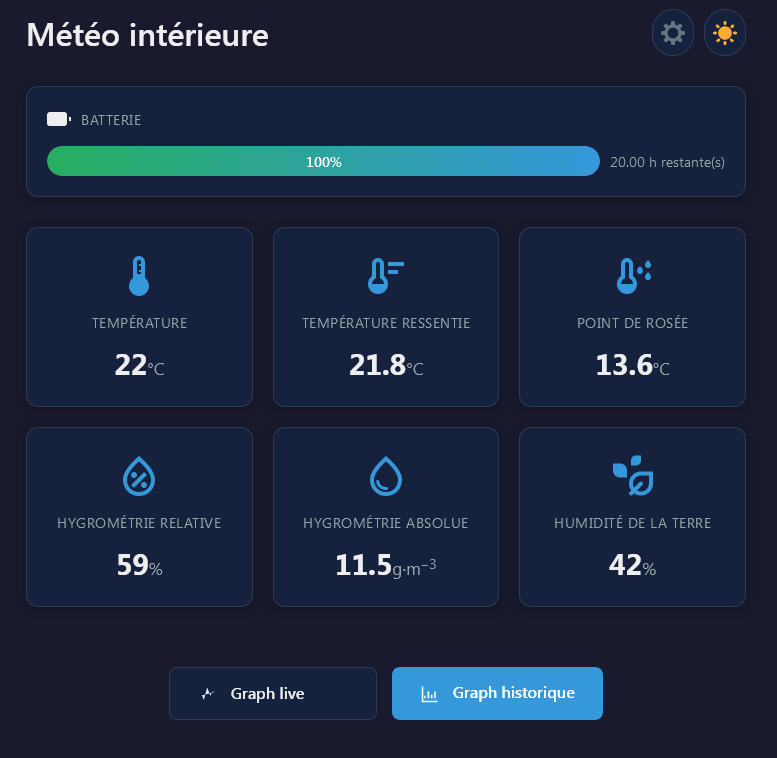
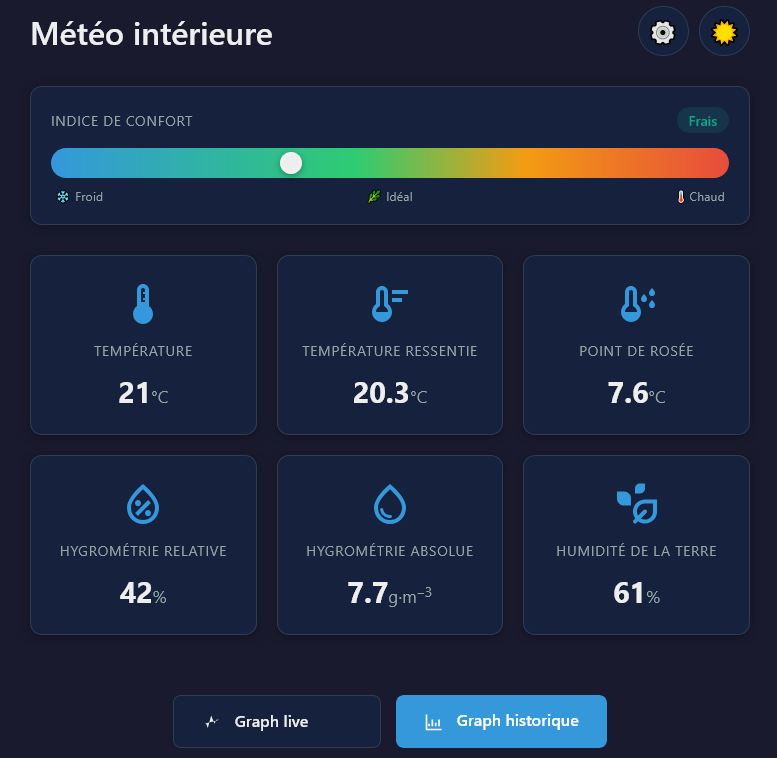
corrections mineures

diff --git a/index.html b/index.html
@@ -102,6 +102,8 @@
             margin-bottom: 2rem;
             box-shadow: 0 2px 8px var(--shadow);
             white-space: pre-line;
+            overflow-wrap: break-word;
+            word-wrap: break-word;
         }
 
         .about-content {
@@ -127,6 +129,13 @@
         .about-text {
             flex: 1;
             min-width: 300px;
+            overflow-wrap: break-word;
+            word-wrap: break-word;
+        }
+
+        .about-text p {
+            overflow-wrap: break-word;
+            word-wrap: break-word;
         }
 
         .about-text h2 {
@@ -396,6 +405,15 @@
                 text-align: center;
             }
 
+            .about-text {
+                min-width: 0;
+                width: 100%;
+            }
+
+            .skills {
+                display: none;
+            }
+
             .project-media {
                 flex-wrap: wrap;
                 justify-content: center;
@@ -636,8 +654,8 @@
                     year: 2006,
                     title: "SyncMX",
                     description: {
-                        en: "A privacy-focused file synchronization solution for maintaining consistent data across multiple drives and locations, completely cloud-free to ensure full data ownership and security.",
-                        fr: "Une solution de synchronisation de fichiers axée sur la confidentialité pour maintenir des données cohérentes sur plusieurs disques et emplacements, complètement sans cloud pour garantir une propriété et une sécurité totales des données."
+                        en: "A privacy-focused file synchronization solution for maintaining consistent data across multiple drives and locations, completely cloud-free to ensure full data ownership and security.\r\nYou can find this project on <a href='https://github.com/couitchy/SyncMX' target='_blank' class='contact-link'>GitHub</a>.",
+                        fr: "Une solution de synchronisation de fichiers axée sur la confidentialité pour maintenir des données cohérentes sur plusieurs disques et emplacements, complètement sans cloud pour garantir une propriété et une sécurité totales des données.\r\nVous pouvez retrouver ce projet sur <a href='https://github.com/couitchy/SyncMX' target='_blank' class='contact-link'>GitHub</a>."
                     },
                     media: [
                         {type: 'image', src: 'media/programming-syncmx-1.png'}
